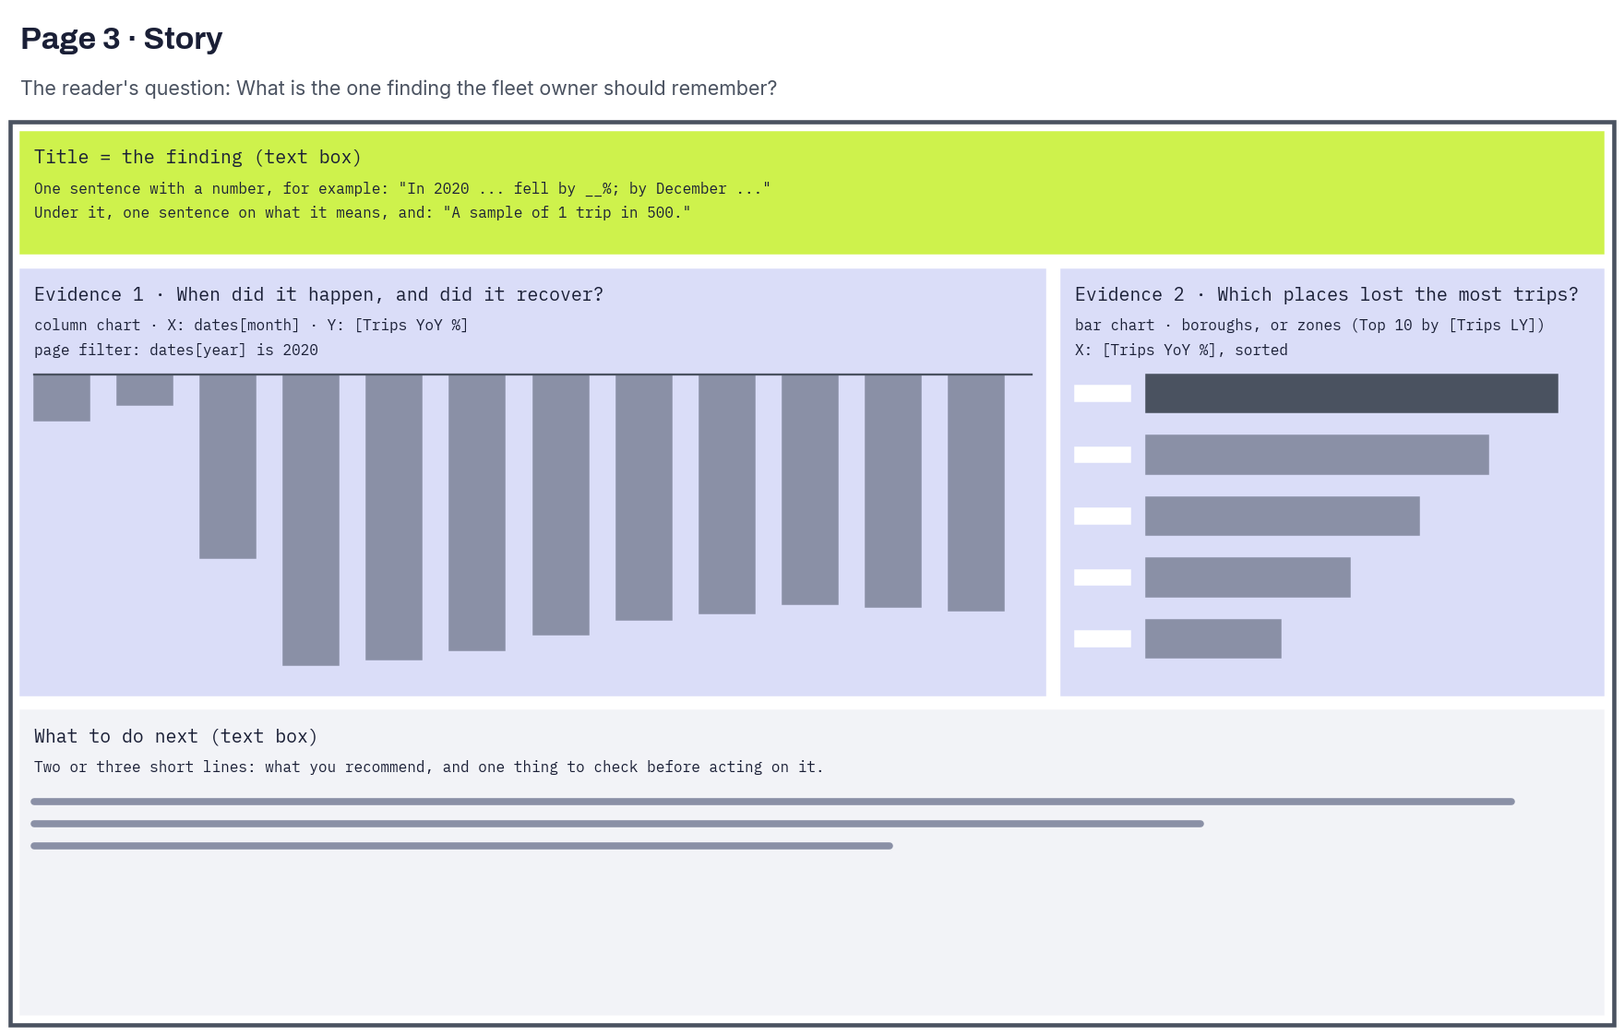
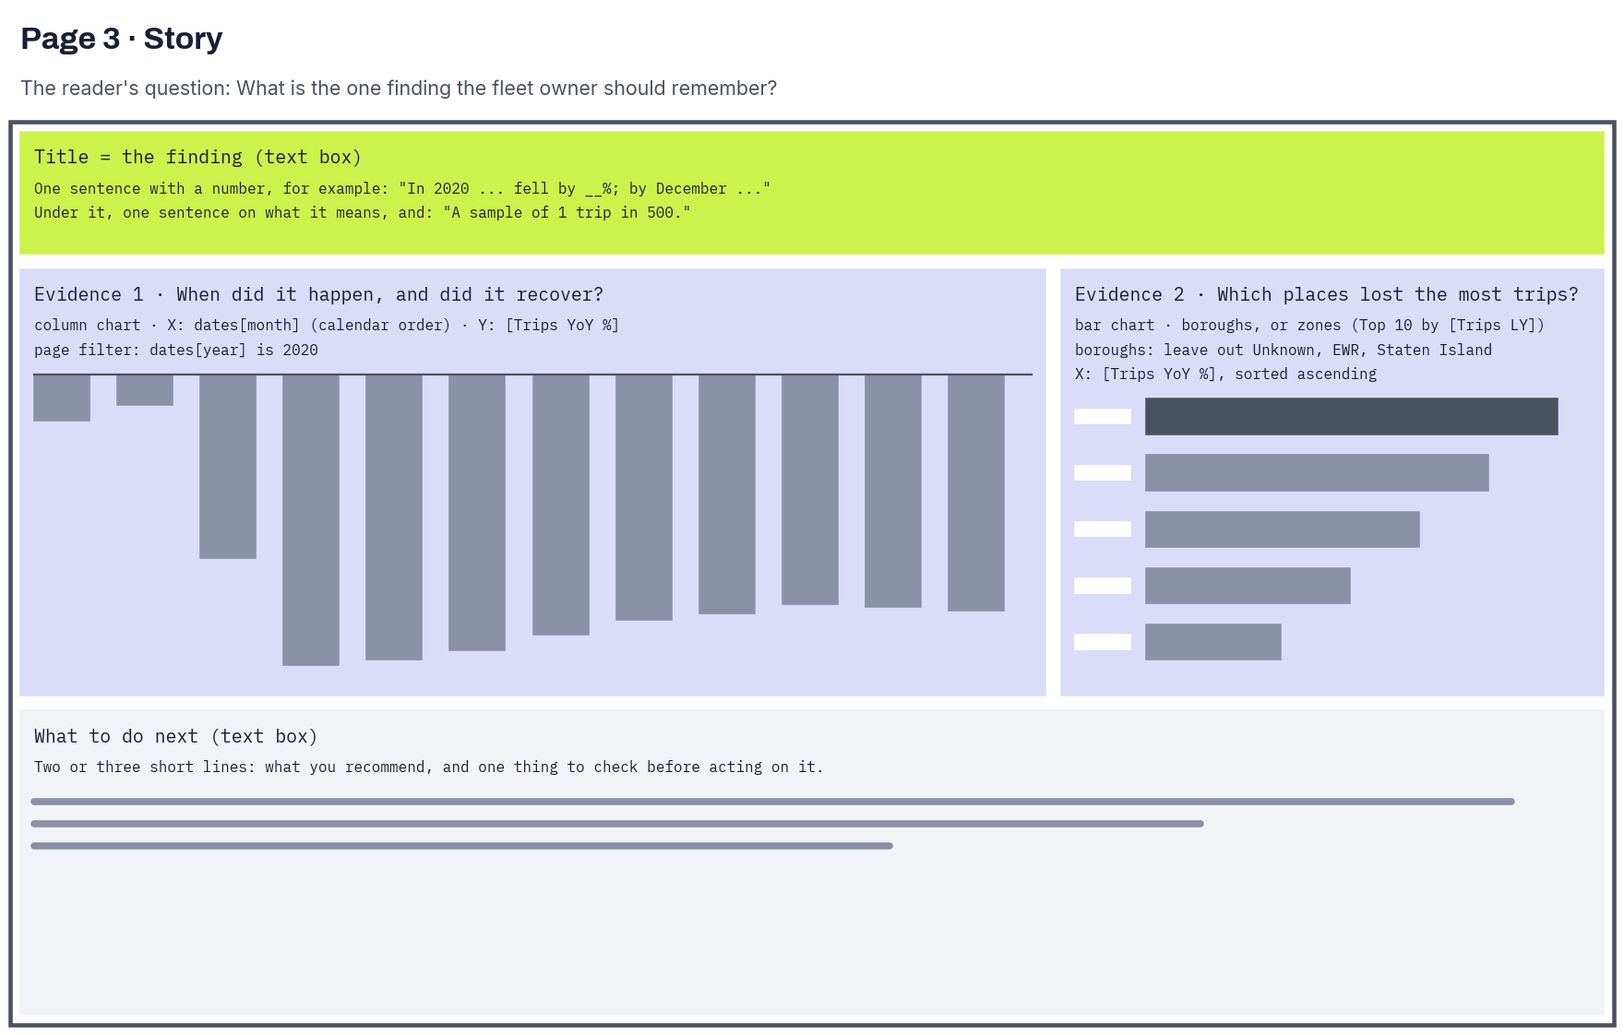
updated A3 assignment

Changed region(s): [[0.6562, 0.3119, 0.9688, 0.6239], [0.3125, 0.3119, 0.3438, 0.3431], [0.2188, 0.3119, 0.25, 0.3431]]

diff --git a/modules/06-visualization-and-storytelling/assignments/A03-NYC-Taxi-Dashboard/README.md b/modules/06-visualization-and-storytelling/assignments/A03-NYC-Taxi-Dashboard/README.md
@@ -10,6 +10,9 @@ most trips, or whether the business had recovered by December.
 
 She asks you for a **Power BI dashboard she can open herself**, and a **short story** that tells her what to remember.
 
+When you finish, you will have a three-page report on real city data and a story you can tell in two minutes. You
+can show both to an employer: D27 shows how to put them on GitHub.
+
 | Her question | Where you answer it |
 |---|---|
 | A. How much did 2020 change our trips and revenue? | Page 1, Overview |
@@ -146,7 +149,9 @@ meet all of these.
    already profiles the entire data set; profiling 217,911 rows can take a minute),
    turn on **View → Column profile** (browser: **View → Data view**), and select any column: **Count** in its column
    statistics is the number of rows. This is how you check every row count below. If your browser does not show the
-   statistics, check the count after loading instead, with a card that counts the rows (D17 entry page).
+   statistics, check the count after loading instead: put `tpep_pickup_datetime` in a card and set it to **Count**
+   (in the Visualizations pane, select the arrow beside the field). Use that column because no trip has it empty.
+   `VendorID` has empty values and would give 215,787.
 
 > **Numbers look wrong?** If `fare_amount` shows 95 instead of 9.5, or the dates are errors, your computer's region
 > reads the file differently. Select the column's type icon → **Using Locale…** → choose the type and
@@ -156,12 +161,15 @@ meet all of these.
 
 ## Part 1. Clean the data in Power Query (20 points)
 
-Each rule fixes one problem in `trips`. Apply them **in this order**, one step each, and check the row count after each.
+Each rule fixes one problem in `trips`. Apply them **in this order**, each as its own filter step, and check the row
+count after each. (R2 needs three small steps: its hint below shows them.) To read a count again later, select that
+step in **Applied steps**: the preview and the column statistics show the table as it was at that step.
 On slide S1, show the **Applied steps** pane and the row count after each of R1, R2 and R3.
 
 **1.1 Set the column types.** The two `tpep_` columns are **Date/Time**. `trip_distance` and every `_amount`,
 `extra`, `mta_tax` and `_surcharge` column are **Decimal number**. The `ID` and `_type` columns and
-`passenger_count` are **Whole number**.
+`passenger_count` are **Whole number**. To set a type, select the icon at the left of the column name and choose it.
+Power BI usually guesses the three small tables correctly (numbers as Whole number, names as Text): check them once.
 
 **1.2 Three rules that remove rows.**
 
@@ -171,23 +179,37 @@ On slide S1, show the **Applied steps** pane and the row count after each of R1,
 | R2 | the dropoff is at or after the pickup | A trip cannot end before it starts | **217,868** |
 | R3 | `total_amount` is 0 or more | Negative totals are refunds and cancelled charges, not rides | **217,338** |
 
+> **How to filter R1.** Select the arrow on `tpep_pickup_datetime` → **Date/Time Filters → Custom Filter…**. First
+> line: **is after or equal to** 1/1/2019 12:00 AM. Choose **And**. Second line: **is before** 1/1/2021 12:00 AM.
+>
 > **Careful with R1.** Use **is before** 1/1/2021, not "is before or equal to" 31/12/2020: Power Query reads that
 > date as midnight at the start of 31 December and drops the 94 trips of the last day (217,814 rows instead of
 > 217,908).
 >
 > **Hint for R2.** A filter compares a column with a value, not with another column. Add a custom column
 > `= [tpep_dropoff_datetime] >= [tpep_pickup_datetime]`, filter it to `TRUE`, then remove it.
+>
+> **How to filter R3.** Select the arrow on `total_amount` → **Number Filters → Greater Than Or Equal To** → `0`.
 
-**1.3 Fill two gaps.** 2,084 trips have an empty `payment_type` and an empty `RatecodeID` (the meter sent no payment
-details). Replace the empty values (`null`) with **5** in `payment_type` (5 means Unknown) and with **99** in
-`RatecodeID` (99 means Unknown). Now every trip finds its row in `payment_types` and `rate_codes`. The same 2,084 trips
-also have no `passenger_count`: leave that column empty.
+**1.3 Fill two gaps.** After R1 to R3, 2,084 trips have an empty `payment_type` and an empty `RatecodeID`: the meter
+sent no payment details. (Before the rules there are 2,124. R1 to R3 remove the other 40 with the bad rows.) Fill them:
 
-**1.4 Add a pickup date column for the relationship.** Add a column `pickup_date` with the **date only** of `tpep_pickup_datetime`
-(**Add Column → Date → Date Only**, or `= DateTime.Date([tpep_pickup_datetime])`), type **Date**.
+1. Select `payment_type`, then **Transform → Replace Values**.
+2. **Value To Find:** type the word `null`. **Replace With:** `5` (5 means Unknown). **OK**.
+3. Do the same in `RatecodeID`, with `99` (99 means Unknown).
+
+Now every trip finds its row in `payment_types` and `rate_codes`. The same 2,084 trips also have no
+`passenger_count`: leave that column empty.
+
+**1.4 Add a pickup date column for the relationship.** Select `tpep_pickup_datetime`, then **Add Column → Date →
+Date Only**. (Or use **Add Column → Custom Column** with `= DateTime.Date([tpep_pickup_datetime])`.) The new column is
+called `Date`: rename it `pickup_date` and check that its type is **Date**.
+Why: `dates[date]` holds dates with no time. `tpep_pickup_datetime` holds 1 January 2019 00:04:06, which never equals
+1 January 2019, so a relationship on it would match almost nothing. `pickup_date` holds 1 January 2019 and matches.
 
 **1.5 Remove what the report does not use.** Remove `VendorID`, `store_and_fwd_flag`, `extra`, `mta_tax` and
-`improvement_surcharge`. `trips` now has **14** columns.
+`improvement_surcharge` (select the five with Ctrl+click, then **Home → Remove Columns**). `trips` now has **14**
+columns.
 
 **1.6 Count three kinds of odd rows, and keep them.** Some odd rows are real trips, and removing them would hide something true. Count them and
 keep them (Help H1 shows how): trips of 0 miles (**2,081**), trips with 0 passengers (**4,006**), pickups in the two
@@ -209,12 +231,16 @@ keep them (Help H1 shows how): trips of 0 miles (**2,081**), trips with 0 passen
 **731 rows** (2020 has 29 February). In Power Query: **New Source → Blank Query**,
 `= List.Dates(#date(2019, 1, 1), 731, #duration(1, 0, 0, 0))`, **To Table**, name the column `date`, type **Date**.
 Select `date`, then **Add Column → Date → Year → Year**, **Month → Month** and **Month → Name of Month**, and
-rename the three new columns `year`, `month_no` and `month`. This is D18 Activity 02 with new dates. In the browser,
+rename the three new columns `year`, `month_no` and `month`. This is D18 Activity 02 with new dates.
+If the month names come out in Arabic (a computer set to an Arabic region does this), delete the **Inserted Month Name** step in
+**Applied steps** and make `month` with **Add Column → Custom Column** instead: `= Date.MonthName([date], "en-US")`, type **Text**. In the browser,
 a blank query is **Get data → Blank query** in the Power Query editor.
 
 **2.2 Load the tables, then relate them.** In Desktop select **Close & Apply**; in the browser select **Save** (D17
 entry page). In Model view, make these relationships. Each is **many to one**, with a
-**single** filter direction, from `trips` (many) to the lookup table (one):
+**single** filter direction, from `trips` (many) to the lookup table (one). Desktop may already have drawn some of
+these lines for you, because some column names match: check each line against the list below, keep it if it
+matches, and delete any line that is not in the list.
 
 | From `trips` | To | Active? |
 |---|---|---|
@@ -223,6 +249,9 @@ entry page). In Model view, make these relationships. Each is **many to one**, w
 | `DOLocationID` | `zones[LocationID]` | **No** (dashed line; Power BI allows only one active path between two tables) |
 | `payment_type` | `payment_types[payment_type]` | Yes |
 | `RatecodeID` | `rate_codes[RatecodeID]` | Yes |
+
+> **Use `pickup_date`, not `tpep_pickup_datetime`.** If Model view offers you `tpep_pickup_datetime`, go back to 1.4:
+> a date-and-time column cannot join a date table.
 
 **2.3 Tidy it.** Mark `dates` as the date table (column `date`). Sort `month` by `month_no`. Hide the key columns in
 `trips` (the five above), so nobody drags a zone number into a chart by mistake.
@@ -235,7 +264,8 @@ Arrange Model view so all five lines are visible. If you hand in the PDF only, p
 
 Make each measure in `trips` (or in a measures table, if you like). For each, write the formula yourself. Where the
 idea is new, the starter shows the shape with blanks `___`. Then check it against the numbers below with a card or a
-table. If you hand in the PDF only, list each measure's name and formula on slide S3.
+table. Set each measure's format when you make it (**Measure tools → Format**): counts with no decimals, money with
+two, percentages with one. If you hand in the PDF only, list each measure's name and formula on slide S3.
 
 | Measure | What it gives | Taught in |
 |---|---|---|
@@ -261,6 +291,9 @@ CALCULATE (
     payment_types[payment_name] = "___"
 )
 ```
+
+For `Card Tip %`, compare the tips with `fare_amount`, the meter fare (`total_amount` already includes the tip).
+Type the payment name exactly as `payment_types.csv` writes it for code 1: a different spelling gives a blank card.
 
 > **Why only card payments for tips?** The TLC records a tip only when it is paid by card. Cash tips are never in the
 > data, so a "tip %" over all trips would mix real tips with zeros that are not really zeros.
@@ -307,12 +340,21 @@ What "matching" means:
     chart (D21 Activity 02). Select **Edit interactions** again to finish.
   - **Page 2:** the airport chart compares the two years too. Do the same for the year slicer and for the borough
     slicer above the airport chart (the airports are in Queens and Newark, so a borough filter hides some or all of
-    them). Keep only the three airports with a visual filter (Help H5).
+    them). The chart shows `Trips`. Keep only the three airports with a visual filter (Help H5).
   - **Page 2:** both Top 10 visuals use a **Top N** filter in the Filters pane (Help H2), and the borough bar chart
     shows `% of Trips` as a second data label (Help H3).
-- **It reads well.** Each visual's title says what it shows. Bars are sorted. Numbers have a sensible format: counts
-  with no decimals (not "217338.00"), money with two, percentages with one. **Every page** says that the data is
-  **1 trip in 500**.
+  - **Page 2:** the table colours `Trips YoY %` with conditional formatting: in the Visualizations pane, open the arrow
+    on `Trips YoY %` in **Columns** → **Conditional formatting → Background color**, then the gradient from
+    [D20 Lab 04, Step 5](../../labs/D20/04-Lab-Overview-Page/README.md#5-colour-the-yoy--column).
+  - **Page 2:** the dropoff chart uses the dropoff relationship, so the borough slicer filters it by where trips
+    **end**. The table and the borough chart are filtered by where trips start. The airport chart is not filtered by the
+    borough slicer at all.
+- **It reads well.** Each visual's title says what it shows. Bars are sorted, largest first, except in two places.
+  Where months are on the axis, select **More options (…) → Sort axis → month**, then **Sort ascending**, so January
+  comes first. On page 3, the biggest loss goes on top (see below). Numbers use the formats you set in Part 3 (not
+  "217338.00").
+  On each card, set **Format visual → Visual → Callout value → Display units** to **None**, so it reads 48,791 and
+  not 48.79K. **Every page** says that the data is **1 trip in 500**.
 - **Your own touch.** Choose a theme and colours that help the reader (for example, one colour for 2020 used on every
   page). Add at least one thing the mockup does not ask for: a tooltip, a reference line, a better title, or
   conditional formatting on a visual where the mockup does not already ask for it. Name it on slide S4,
@@ -322,15 +364,20 @@ What "matching" means:
 *"Austin's bikes follow the school calendar first and the heat second."* The page shows 2020: add a page filter
 `dates[year]` is 2020 in the Filters pane (Help H5), so `Trips YoY %` always compares 2020 with 2019. For Evidence 2, choose the
 places that prove your point best: boroughs, or zones. With zones, keep only big ones (a Top N filter, Top 10 by
-`Trips LY`, Help H2): a zone with 3 trips in 2019 and 0 in 2020 shows −100% and tells the reader nothing.
+`Trips LY`, Help H2): a zone with 3 trips in 2019 and 0 in 2020 shows −100% and tells the reader nothing. With
+boroughs, leave out Unknown, EWR and Staten Island (Filters pane, untick them): the sample has too few of their trips
+to say anything (Staten Island has 8 in each year). Sort the chart by `Trips YoY %`, **ascending**, so the place that
+lost the most is on top.
 
 ### Check yourself (Part 4)
 
 | Page | With this filter | You should see |
 |---|---|---|
 | 1 | Year 2020 | Trips 48,791 · Trips YoY % −71.1% · Credit card 34,667 trips |
+| 1 | Year 2020 | The Revenue YTD columns rise from January to December and end at 898,025.57 |
 | 1 | Year 2019 | The Trips LY line and the Trips YoY % card are empty (there is no 2018 in the data) |
-| 2 | Year 2020 | Upper East Side South first in the table, 2,236 trips, −68.6% |
+| 2 | Year 2020, borough slicer cleared | Upper East Side South first in the table, 2,236 trips, −68.6% |
+| 2 | Year 2020, borough slicer cleared | Upper East Side North first in the dropoff chart, 2,238 trips |
 | 2 | Any year | The airport chart still shows both years: JFK Airport 1,147 pickups in 2020, 5,379 in 2019 |
 
 ---
@@ -354,7 +401,7 @@ Choose **one** route. Both get the same marks.
 
 | Route | What to do | What goes on your slide |
 |---|---|---|
-| **A. Publish** (any free Power BI account) | **Publish → My workspace** (D22 Activity 01). Open the report in the browser | A screenshot of the report open in the browser, with the address bar showing |
+| **A. Publish** (any free Power BI account) | **Publish → My workspace** (D22 Activity 01). Open the report in the browser. If you built it in the browser, it is already in My workspace: open it from there | A screenshot of the report open in the browser, with the address bar showing |
 | **B. Plan it** (no Service access, or publishing fails) | Write a short access plan, as in D22 Lab 04 | Three lines: who should see the report, who should not see what, and how often the data would be refreshed if it came from the TLC each month |
 
 Do not use **Publish to web**: it makes the report public to anyone on the internet.
@@ -389,8 +436,9 @@ Remove it again, and do the same with `zones[Borough]` is `Unknown` (**Basic fil
 3. Set **Filter type** to **Top N**. Set **Show items** to **Top** and type **10**.
 4. Drag the measure that decides the ranking into **By value**: `Trips` for the page 2 table, `Dropoff Trips` for the
    dropoff chart, `Trips LY` for page 3.
-5. Select **Apply filter**. Then sort the visual by the same measure (select the column header in a table, or
-   **More options (…) → Sort axis** in a chart).
+5. Select **Apply filter**. Then sort the visual. On page 2, sort by the same measure, largest first (select the
+   column header in a table, or **More options (…) → Sort axis** in a chart). On page 3, sort by `Trips YoY %`,
+   **ascending**, so the biggest loss is on top.
 
 Check: page 2 with year 2020 shows 10 zones, with Upper East Side South first (2,236 trips).
 
@@ -422,7 +470,7 @@ Check: on page 1 you can choose 2019 or 2020, never both, and the `Trips YoY %` 
 page now shows 2020, and the Trips YoY % chart has twelve columns, all below zero.
 
 **One visual (page 2, airport chart):** select the chart, drag `zones[service_zone]` into **Filters on this visual**,
-and tick **Airports** and **EWR**. Check: three zones, JFK Airport, LaGuardia Airport and Newark Airport.
+and tick both **Airports** and **EWR**. Check: three zones, JFK Airport, LaGuardia Airport and Newark Airport.
 
 ---
 
@@ -433,20 +481,24 @@ and add one slide for each to the end of your PDF.
 A bonus task that is partly done gets 1 point.
 
 - **B1. A role that shows only Manhattan pickups.** Make a role `Manhattan pickups` on `zones[Borough]` (D22 Activity
-  02). Show **View as** with the role: the Trips card should read 197,459. Then look at the Dropoff Trips chart under
-  the role. What do you see? Read the remarks on Microsoft's
+  02). Add a new page with one `Trips` card and no year filter, and show **View as** with the role: the card reads
+  197,459. (On page 1 with 2020 chosen it reads 44,524.) Then look at the Dropoff Trips chart under the role. What do you see? Read the remarks on Microsoft's
   [USERELATIONSHIP page](https://learn.microsoft.com/en-us/dax/userelationship-function-dax) and explain it.
 - **B2. Drillthrough.** Add a page `Zone detail` that a reader reaches by right-clicking a zone (D21 Activity 03).
   Show trips by month and payment types for that zone.
 - **B3. A tooltip page.** Make a small tooltip page that shows Trips, Trips LY and Card Tip % when the reader hovers
   over a borough (D21 Activity 03).
-- **B4. Bookmarks.** Add two buttons on page 1 that switch the trend chart between Trips and Revenue (D21 Activity 04).
+- **B4. Bookmarks.** Add two buttons on page 1 that switch the trend chart between Trips and Revenue (D21 Activity 04). The Revenue view can show Revenue alone, or
+  Revenue and Revenue LY if you do B7.
 - **B5. A visual calculation.** In the page 1 trend chart, add a running total of Trips with a visual calculation
   (D21 Activity 04). How is it different from Revenue YTD?
-- **B6. Trip length in minutes.** Add `trip_minutes` (dropoff minus pickup, in minutes) in Power Query, then a histogram
+- **B6. Trip length in minutes.** Add `trip_minutes` in Power Query with **Add Column → Custom Column**:
+  `= Duration.TotalMinutes([tpep_dropoff_datetime] - [tpep_pickup_datetime])`, type Decimal number. (The
+  **Duration → Minutes** button gives only the minutes part, 0 to 59, so use the formula.) Then make a histogram
   with bins (D20 Lab 05). How many trips last more than 3 hours (516)? What is the longest? What do you think happened
   on those trips, and would you keep them?
-- **B7. Revenue against trips.** Add `Revenue LY` and `Revenue YoY %`. In 2020 revenue fell a little more than trips.
+- **B7. Revenue against trips.** Add `Revenue LY` and `Revenue YoY %`, the same way as `Trips LY` and `Trips YoY %`.
+  In 2020 revenue fell a little more than trips: −72.1% against −71.1%.
   Which measure from Part 3 explains why?
 
 ---

diff --git a/modules/06-visualization-and-storytelling/assignments/A03-NYC-Taxi-Dashboard/A03_rubric.md b/modules/06-visualization-and-storytelling/assignments/A03-NYC-Taxi-Dashboard/A03_rubric.md
@@ -47,7 +47,7 @@ S3 if you hand in the PDF only. A correct number with no formula to read gets ha
 | Page 1, Overview | 10 | Every box of the mockup, with its visual and fields (6); the year slicer works and does not filter the tip chart (2); Trips and Trips LY on one line chart, months in calendar order (2) | Most boxes, or the slicer filters everything |
 | Page 2, Places | 8 | Every box (5); Top 10 by a Top N filter (1); the year and borough slicers work, and the year and borough slicers do not filter the airport chart (1); the dropoff chart uses `Dropoff Trips` (1) | Most boxes |
 | Page 3, Story | 5 | The title is the finding with a number (2); two evidence visuals that support it, with the page filtered to 2020 (2); a "what to do next" text (1) | A title with no number, or evidence that does not match the title |
-| Reads well | 4 | Visual titles say what they show; bars sorted; number formats fit (counts with no decimals, money with two, percentages with one); "1 trip in 500" on every page (1 each) | |
+| Reads well | 4 | Visual titles say what they show; bars sorted (months in calendar order); number formats fit (counts with no decimals, money with two, percentages with one); "1 trip in 500" on every page (1 each) | |
 | Your own touch | 3 | A theme and colours used the same way on every page (1); at least one addition the mockup does not ask for (1), named on slide S4 with why it helps (1) | |
 
 **Matching the mockup** means every box is there, in about the same place, with the visual and the fields it names. A
@@ -79,7 +79,7 @@ but the explaining sentence is missing).
 
 | Bonus | Full points (2) |
 |---|---|
-| B1 A role that shows only Manhattan pickups | The role, **View as** showing 197,459 trips, and what the Dropoff Trips chart shows under the role, explained from Microsoft's USERELATIONSHIP page |
+| B1 A role that shows only Manhattan pickups | The role, **View as** showing 197,459 trips on a page with no year filter, and what the Dropoff Trips chart shows under the role, explained from Microsoft's USERELATIONSHIP page |
 | B2 Drillthrough | A working drillthrough page for one zone, with a screenshot of it reached from page 2 |
 | B3 Tooltip page | A tooltip page that shows the three measures for the borough under the mouse |
 | B4 Bookmarks | Two buttons that switch the trend chart, with a screenshot of each state |

diff --git a/shared/datasets/README.md b/shared/datasets/README.md
@@ -12,7 +12,7 @@ These are the datasets you use in the labs and assignments. Each folder holds th
 | [`pagila/`](pagila/README.md) | Films, film categories and the table that links them, from the Pagila sample database | D07 activity 08 and the D07 lab |
 | [`intl_football/`](intl_football/README.md) | Every men's international football match since 1872, with goal scorers and penalty shootouts, to 30 September 2026 | Assignment 1 (SQL), loaded on D10 |
 | [`hotel_bookings/`](hotel_bookings/README.md) | 119,390 bookings for a resort hotel and a city hotel in Portugal, 2015–2017, with cancellations and prices, from Antonio, Almeida and Nunes (2019) | Assignment 2 (machine learning), issued on D16 |
-| [`nyc_taxi/`](nyc_taxi/README.md) | 217,911 New York yellow taxi trips (1 in 500), 2019–2020, with the taxi zones and the payment and rate codes, from the NYC Taxi and Limousine Commission | Assignment 3 (Power BI dashboard), issued Wed 18 Nov |
+| [`nyc_taxi/`](nyc_taxi/README.md) | 217,911 New York yellow taxi trips (1 in 500), 2019–2020, with the taxi zones and the payment and rate codes, from the NYC Taxi and Limousine Commission | Assignment 3 (Power BI dashboard), released Wed 18 Nov |
 | [`ml_classics/`](ml_classics/README.md) | Eight small, well-known machine-learning datasets: salaries, medical insurance costs, car fuel economy (Auto MPG), telecom customer churn, employee attrition, mall shoppers, Palmer penguins and a wholesaler's clients | D11, D12 and D13, to learn regression, classification and clustering in BigQuery ML |
 
 Three more datasets live elsewhere:

diff --git a/shared/datasets/nyc_taxi/README.md b/shared/datasets/nyc_taxi/README.md
@@ -76,7 +76,7 @@ Every trip has a pickup zone and a dropoff zone, and both are in `taxi_zone_look
 | `fare_amount` | Decimal | The time-and-distance fare from the meter, in US dollars |
 | `extra` | Decimal | Extras and surcharges (rush hour, overnight) |
 | `mta_tax` | Decimal | A fixed tax added by the meter |
-| `tip_amount` | Decimal | Tip. **Filled in only for card payments; cash tips are not recorded** |
+| `tip_amount` | Decimal | Tip. **Recorded for card payments; cash tips are not recorded.** One trip in this sample is marked cash and still shows a tip |
 | `tolls_amount` | Decimal | Tolls paid during the trip |
 | `improvement_surcharge` | Decimal | A fixed surcharge added at the start of the trip |
 | `total_amount` | Decimal | The total charged to the passenger. Does not include cash tips |
